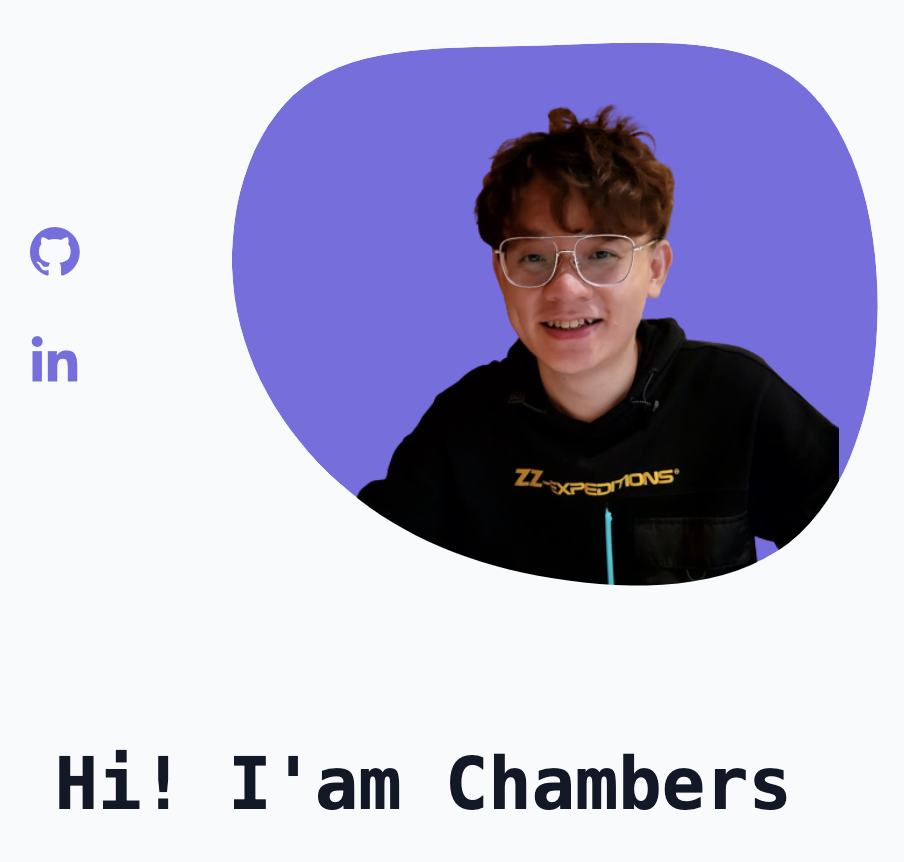
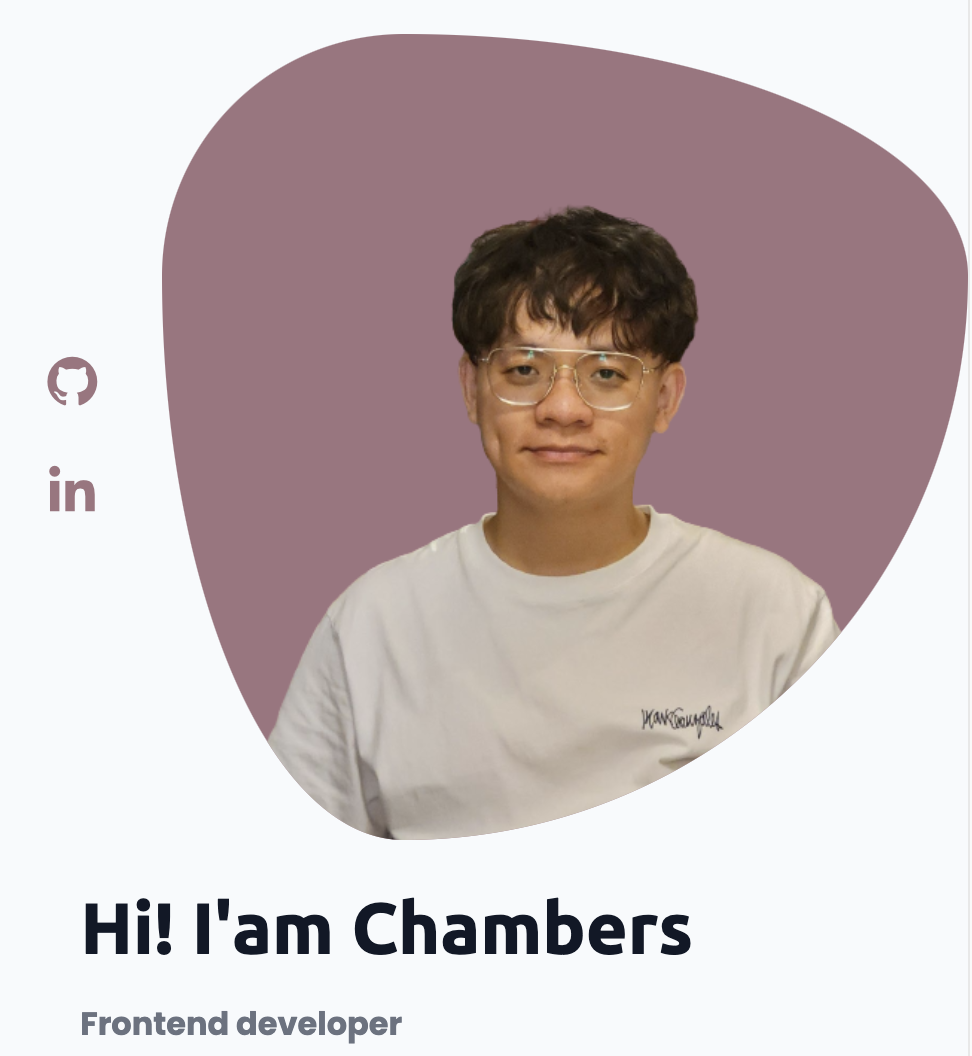
新增作品集
刪除不必要內容
過度動畫優化

diff --git a/src/views/HomeView.vue b/src/views/HomeView.vue
@@ -11,12 +11,12 @@
       </div>
       <div class=" col-span-10 md:col-span-5 md:order-2">
         <div class="rounded-[30%_70%_70%_30%_/_30%_30%_70%_70%] bg-primary overflow-hidden aspect-square">
-          <img class="object-contain object-bottom w-full" src="../assets/backup/hero.png" alt="">
+          <img class="object-contain h-full object-bottom w-full" src="../assets/backup/hero.png" alt="">
         </div>
       </div>
       <div class=" col-start-2 col-span-10 md:col-span-5">
-        <h1 class=" text-4xl font-bold leading-loose">Hi! I'am&nbsp;Chambers</h1>
-        <p class="dark:text-white text-gray-500 md:leading-loose mb-5">Frontend developer</p>
+        <h1 class=" text-4xl font-bold leading-loose font-ubuntu">Hi! I'am&nbsp;Chambers</h1>
+        <p class="dark:text-white text-gray-500 md:leading-loose mb-5 font-bold">Frontend developer</p>
         <p class="dark:text-white text-gray-500 md:leading-relaxed mb-10">High Level experience in web development knowledge, producing
           quality work.</p>
         <LinkContainer href="#contact">
@@ -71,8 +71,8 @@
             <BlurImg :src="item.img" />
           </a>
           <div class=" md:w-6/12 p-4">
-            <h3 class=" text-primary leading-loose font-bold text-2xl">{{ item.title }}</h3>
-            <p class="dark:text-white text-gray-500 mb-5">{{ item.description }}</p>
+            <h3 class=" text-primary leading-loose font-bold text-2xl font-ubuntu">{{ item.title }}</h3>
+            <p class="dark:text-white text-gray-500 mb-5 whitespace-pre-line">{{ item.description }}</p>
             <p>
               <a :href="item.link" target="_blank" rel="noopener noreferrer" class="hover:opacity-80 transition bg-primary py-2 px-3 rounded-xl text-white inline-block leading-8 mx-2">
                 Demo
@@ -89,8 +89,8 @@
     <section class="mb-20 py-10 lg:scroll-m-20">
       <div class=" max-w-4xl w-5/6 rounded-3xl mx-auto bg-gradient-to-r from-primary to-primary/70 p-10 lg:flex dark:bg-black dark:bg-none  transition">
         <div class=" lg:w-4/6 mb-5 lg:mb-0">
-          <h2 class="text-2xl font-bold leading-loose tracking-tighter text-white">You have a new project</h2>
-          <p class="text-white mb-10 tracking-tighter">Contact me now and get a 10% discount on your new project</p>
+          <h2 class="text-2xl font-bold leading-loose tracking-tighter text-white font-ubuntu">You have a new project</h2>
+          <p class="text-white mb-10">Contact me now and get a 10% discount on your new project</p>
           <a class="hover:opacity-80 dark:bg-primary dark:text-white p-4 rounded-xl text-primary bg-white" href="#contact">
             Contact Me <i class='bx bx-send'></i>
           </a>
@@ -129,6 +129,13 @@ useIntersectionObserver(
 )
 
 const portfolio = [
+  {
+    link: 'https://ai-image-generator-wheat.vercel.app',
+    title: 'AIPicker',
+    description: `This website serves as an innovative AI-driven graphical platform that enables users to swiftly register and commence their utilization through their Google accounts.\nBy simply inputting a selection of prompts, the AI will autonomously generate suitable images based on the provided content, eliminating the need for any drawing skills or software.`,
+    github: 'https://github.com/connectshark/ai-image-picker',
+    img: 'https://cdn.jsdelivr.net/gh/connectshark/ai-image-picker@latest/readme/cover.png'
+  },
   {
     link: 'https://www.npmjs.com/package/prodia-ai',
     title: 'Prodia-AI npm package',
@@ -191,6 +198,13 @@ const portfolio = [
     description: 'This project involves slicing and coding a fitness center website, and implementing a responsive design.',
     github: 'https://github.com/connectshark/responsive-gym-website',
     img: '/portfolio/gymwebsite.png'
+  },
+  {
+    link: 'https://nosegates.com',
+    title: 'This website',
+    description: 'Just this website.',
+    github: 'https://github.com/connectshark/nosegates',
+    img: '/__og_image__/og.png'
   }
 ]
 

diff --git a/index.html b/index.html
@@ -12,12 +12,12 @@
   <meta property="og:image:width" content="1664">
   <meta property="og:image:height" content="904">
   <meta property="og:image:alt" content="screenshot">
-  <link href="https://fonts.googleapis.com/css2?family=Noto+Sans+TC:wght@400;700&family=Ubuntu:wght@400;700&display=swap" rel="stylesheet">
+  <link href="https://fonts.googleapis.com/css2?family=Noto+Sans+TC:wght@400;700&family=Poppins:wght@400;700&family=Ubuntu:wght@400;700&display=swap" rel="stylesheet">
   <link href='https://unpkg.com/boxicons@latest/css/boxicons.min.css' rel='stylesheet'>
 </head>
 <body>
-  <div id="app" class=" font-nunito bg-slate-50 min-h-screen text-gray-900 dark:text-white dark:bg-slate-900 transition"></div>
-  <div id="modal"></div>
+  <div id="app" class="font-poppins bg-slate-50 min-h-screen text-gray-900 dark:text-white dark:bg-slate-900 transition"></div>
+  <div id="modal" class="font-poppins"></div>
   <script type="module" src="/src/main.js"></script>
   <script async src="https://www.googletagmanager.com/gtag/js?id=G-JFQK0SVFTX"></script>
   <script>

diff --git a/src/components/blurImg.vue b/src/components/blurImg.vue
@@ -1,11 +1,11 @@
 <template>
 <img ref="target" :class="[
   {
-    'blur-sm scale-110 -translate-y-3': !isSectionShow
+    'blur-sm scale-90': !isSectionShow
   },
   {
-    'blur-none scale-100 translate-y-0': isSectionShow
-  }]" class="object-cover shadow-lg rounded-lg transition-all duration-500 delay-100" loading="lazy" :src="props.src" alt="image1">
+    'blur-none scale-100': isSectionShow
+  }]" class="object-cover shadow-lg rounded-lg transition-all duration-500" loading="lazy" :src="props.src" alt="image1">
 </template>
 <script setup>
 import { useIntersectionObserver } from '@vueuse/core'
@@ -21,6 +21,9 @@ useIntersectionObserver(
   target,
   ([{ isIntersecting }]) => {
     isSectionShow.value = isIntersecting
+  },
+  {
+    rootMargin: '-50px 0px -50px 0px'
   }
 )
 </script>

diff --git a/tailwind.config.js b/tailwind.config.js
@@ -12,12 +12,8 @@ module.exports = {
       }
     },
     fontFamily: {
-      'nunito': [`'Ubuntu'`, `'Noto Sans TC'`, 'sans-serif', 'ui-monospace', 'SFMono-Regular', 'Menlo', 'Monaco', 'Consolas']
+      'ubuntu': [`'Ubuntu'`, `'Noto Sans TC'`, 'sans-serif', 'ui-monospace', 'SFMono-Regular', 'Menlo', 'Monaco', 'Consolas'],
+      'poppins': [`'Poppins'`, `'Noto Sans TC'`, 'sans-serif', 'ui-monospace', 'SFMono-Regular', 'Menlo', 'Monaco', 'Consolas']
     }
-  },
-  plugins: [
-    require('@tailwindcss/forms')({
-      strategy: 'base'
-    })
-  ]
+  }
 }

diff --git a/src/components/container/sectionContainer.vue b/src/components/container/sectionContainer.vue
@@ -1,6 +1,6 @@
 <template>
   <section class="mb-20 py-10">
-    <h2 :id="props.name" class="lg:scroll-m-20 text-center text-2xl font-bold leading-loose">{{ props.title }}</h2>
+    <h2 :id="props.name" class="lg:scroll-m-20 text-center text-2xl font-bold leading-loose font-ubuntu">{{ props.title }}</h2>
     <p class="dark:text-white text-gray-500 text-center mb-10">{{ props.subTitle }}</p>
     <slot/>
   </section>

diff --git a/README.md b/README.md
@@ -1,23 +1,14 @@
 # nosegates
-[![GitHub last commit](https://img.shields.io/github/last-commit/connectshark/nosegates-v2.svg?style=flat)](https://github.com/connectshark/nosegates-v2)
+[![GitHub last commit](https://img.shields.io/github/last-commit/connectshark/nosegates-v2.svg?style=flat)](https://github.com/connectshark/nosegates)
 ![GitHub stars](https://img.shields.io/github/stars/connectshark/nosegates-v2.svg?style=social&label=Stars&style=plastic)
 
-![](/readme/cover.png)
+[![](/readme/cover.png)](https://nosegates.com/)
 
-個人網站
+
+[My personal site.](https://nosegates.com/)
 
 
 
 ![https://img.shields.io/badge/Vite-B73BFE?style=for-the-badge&logo=vite&logoColor=FFD62E](https://img.shields.io/badge/Vite-B73BFE?style=for-the-badge&logo=vite&logoColor=FFD62E)
 ![https://img.shields.io/badge/Vue.js-35495E?style=for-the-badge&logo=vuedotjs&logoColor=4FC08D](https://img.shields.io/badge/Vue.js-35495E?style=for-the-badge&logo=vuedotjs&logoColor=4FC08D)
 ![https://img.shields.io/badge/tailwindcss-35495E?style=for-the-badge&logo=tailwindcss&logoColor=38BCF8](https://img.shields.io/badge/tailwindcss-35495E?style=for-the-badge&logo=tailwindcss&logoColor=38BCF8)
-
-快速開發模板架構
-
-## 專案已安裝內容
-
-- vite
-- vue3
-- pinia
-- vue-router4
-- tailwindcss
